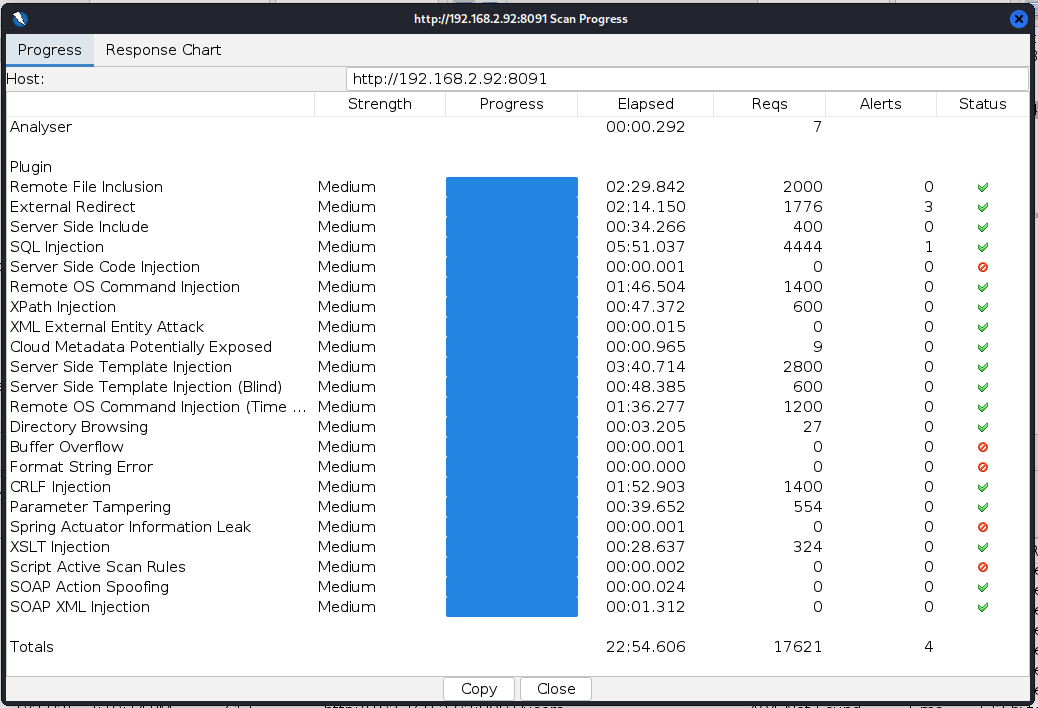
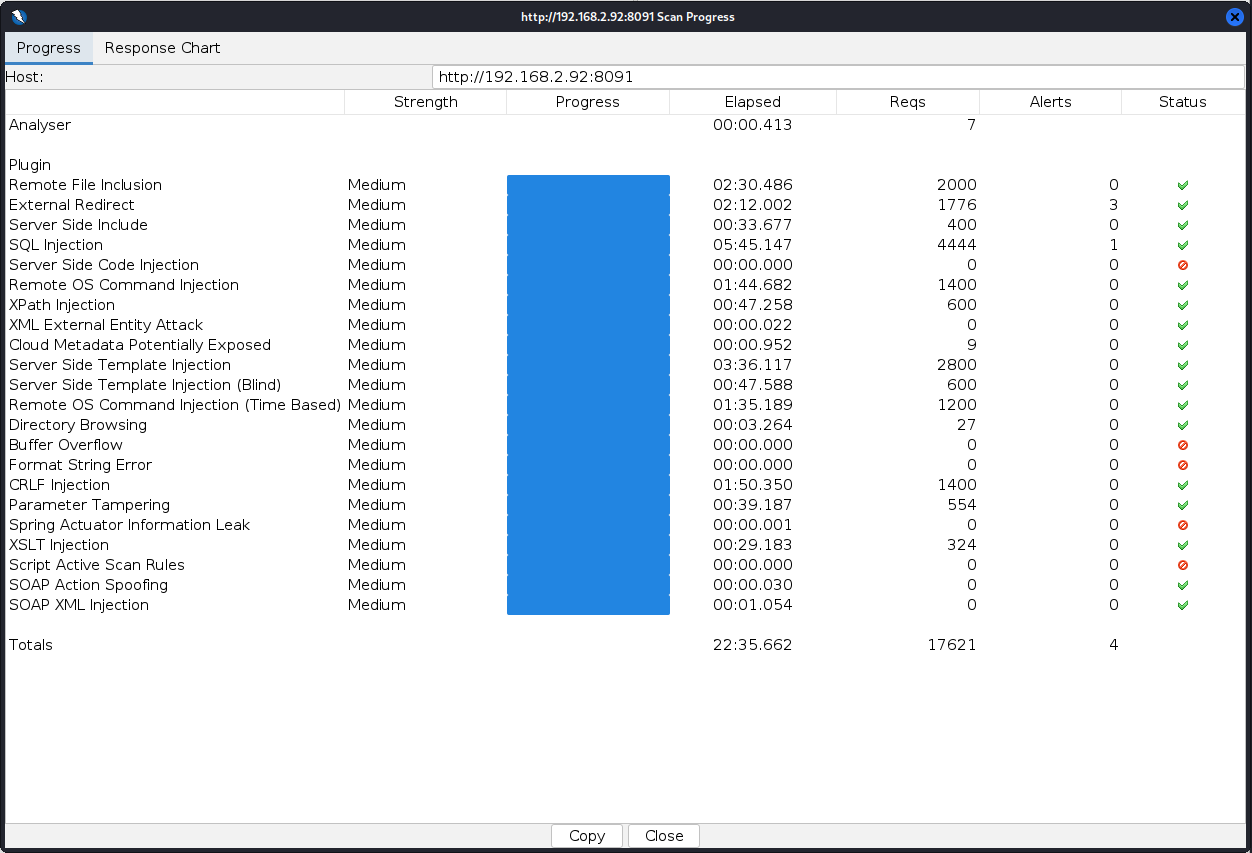
chore: análisis del escaneo automático "customer".

diff --git a/trabajo-final-master/trabajo-final-master.md b/trabajo-final-master/trabajo-final-master.md
@@ -728,6 +728,12 @@ Esta vez fue un escaneo de un poco más de 20 minutos:
 
 ![](./recursos/2/22-1.png)
 
+Antes de continuar con el análisis, se va a guardar el progreso (ver 2.4.5.3 para ver el procedimiento), y adicionalmente el historial del escaneo. Se pudo haber hecho en el escaneo anterior también, pero dado los resultados, no fue relevante hacerlo, pero esta vez es recomendable, pues esta información se puede usar para realizar análisis más especializados, por ejemplo correlación de datos:
+
+![](./recursos/2/22-1-1.png)
+
+![](./recursos/2/22-1-2.png)
+
 Esta vez se ven más peticiones respondidas con 2xx, así como con 5xx:
 
 ![](./recursos/2/22-2.png)
@@ -738,7 +744,10 @@ Además, el programa automáticamente ha detectado vulnerabilidades más serias 
 
 ##### ANÁLISIS DE RESULTADOS Y ESTRATEGIAS PARA NUEVAS PRUEBAS
 
+###### ALERTAS ROJAS AUTOMÁTICAS
 El objetivo por lo pronto es tratar de buscar una escalada en los privilegios, ahora del usuario actual. Por lo pronto se ignorarán las alertas de redirección temporal, pero serán expuestas en el informe final.
+
+- ALERTA ROJA EN ROL ACTUAL DEL USUARIO
 
 En las alertas rojas, hay una asociada a la inyección SQL (SQL injection), y está nada más y nada menos que en la actualización del rol del usuario actual:
 
@@ -747,6 +756,29 @@ En las alertas rojas, hay una asociada a la inyección SQL (SQL injection), y es
 Se puede ver que la petición no la supo manejar la API, y esto pudo haber pasado por varias razones, pero claramente muestra una posible abertura a algo que se intentó pero que no se sabe si es o no permitido. Se podría imaginar, por ejemplo, que puede resultar ser que el rol "John Doe" no es válido, sabemos que "Customer" sí. Para el caso de un atacante, se intentaría hacer un fuzzing, para revisar si hay algún argumento en cadena de caracteres que sea válido, y tenga un mayor privilegio, por ejemplo que se llame "Administrator" o algo similar. ¿Y si se le pregunta a los desarrolladores qué posibles roles son admisibles? En este caso, se hará así para poder realizar la prueba más rápido, ya que se está simulando un escenario seguro en el que se pueden hacer este tipo de preguntas a ellos.
 
 Para este caso, se revisará a través del código (es como si se le preguntara directamente a ellos), y ver qué roles son posibles.
+
+###### ALERTAS ROJAS MANUALES
+
+Para estas se va a realizar el procedimiento realizado para el usuario invitado, de organizar el historial por el código de respuesta, empezando por analizar los 2xx.
+
+Estas son de especial cuidado, ya que podrían ser falsos positivos (parece que fueron, pero no son) o falsos negativos (parecen mostrar que todo va bien, pero el daño sí se hizo y está oculto todavía). La ventaja que tiene OWASP ZAP es que permite emitir una alerta y etiquetarle el grado de seguridad con la que se juzga un presunto evento. Esto ayudará además a diseñar una prueba manual, que permitiría elevar dicho grado de seguridad en el juicio de la alerta, en caso de que se compruebe.
+
+- DETECCIÓN DE ACEPTACIÓN DE CAMBIOS EN CAMPOS CON CARACTERES QUE NO DEBERÍAN SER VÁLIDOS
+
+Por ejemplo, campos como el nombre de una persona no debería aceptar caracteres extraños como "@", "\", etc:
+
+![](./recursos/2/24.png)
+
+También se descubrió en el número de teléfono (phone number).
+
+- DETECCIÓN DE CAMBIO EN EL CONTENIDO DEL MENÚ
+
+Algo llamó la atención y fue que se borró el id # 1 del contenido del menú. Probablemente pudo haber sido un DELETE del menú. Si el usuario de rol "Customer" no debería estar autorizado para hacer esto, deberá lanzarse una alerta roja. Por lo pronto se hará con seguridad de juicio media (confidence):
+
+
+![](./recursos/2/25.png)
+
+Para asegurarse de esto, se hará una prueba manual intentando quitar el id # 2 en el punto 2.4.7.5.  ESCANEO MANUAL DE RECURSOS SOSPECHOSOS DE SER VULNERABLES.
 
 También valdría la pena realizar las pruebas manuales que se hicieron desde un usuario invitado, estos son para buscar IDOR.
 
